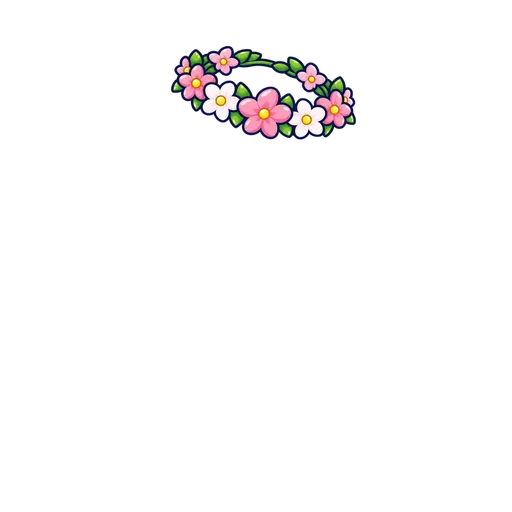
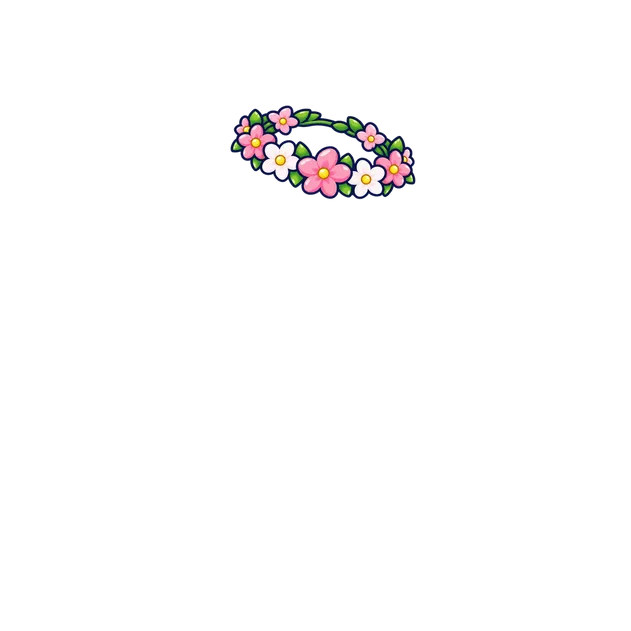
Fitted wearable overlays (Codex 23) with padded layer and alpha hit-testing; fix walking direction

Changed region(s): [[0.3125, 0.0938, 0.7188, 0.3125]]

diff --git a/js/home.js b/js/home.js
@@ -82,7 +82,7 @@ function renderHouse(){
   if(houseTab==='wardrobe'){
     const preview=div('wardrobe-preview'),ruby=rubyFigure('wardrobe-ruby');ruby.id='wardrobeRuby';
     // 點露比身上的配件就直接拿下來
-    ruby.addEventListener('click',e=>{const l=e.target.closest('[data-wear]');if(!l)return;homeWear(homeState,l.dataset.wear);saveHome();sfx.pop();renderHouse();rubyBounce($('#wardrobeRuby'))});preview.append(ruby);content.append(preview);
+    ruby.addEventListener('click',e=>{const id=wearAt(ruby,e.clientX,e.clientY);if(!id)return;homeWear(homeState,id);saveHome();sfx.pop();renderHouse();rubyBounce($('#wardrobeRuby'))});preview.append(ruby);content.append(preview);
     const grid=div('wardrobe-grid');WEARABLES.forEach(it=>grid.append(homeItemButton(it)));content.append(grid);
   }else if(houseTab==='room')renderRoom(content);
   else{
@@ -110,6 +110,21 @@ function renderRoom(content){
     roomDraggable(b,it.id,scene,tray);
   });content.append(scene,tray);
   roomWalker=walkRoomRuby(scene,ruby,content);
+}
+// 找出手指點到的是哪件配件：「穿在身上」的圖層蓋住整隻露比，所以要看該點的圖片是不是透明的
+const wearHitCache=new Map();
+function wearAt(figure,x,y){
+  const layers=[...figure.querySelectorAll('[data-wear]')].reverse();
+  for(const l of layers){
+    const img=l.querySelector('img'),r=l.getBoundingClientRect();
+    if(x<r.left||x>r.right||y<r.top||y>r.bottom)continue;
+    if(!l.classList.contains('ruby-wear-fit')||!img||!img.naturalWidth)return l.dataset.wear;
+    let c=wearHitCache.get(img.src);
+    if(!c){c=document.createElement('canvas');c.width=img.naturalWidth;c.height=img.naturalHeight;c.getContext('2d').drawImage(img,0,0);wearHitCache.set(img.src,c)}
+    const px=Math.floor((x-r.left)/r.width*c.width),py=Math.floor((y-r.top)/r.height*c.height);
+    try{if(c.getContext('2d').getImageData(px,py,1,1).data[3]>40)return l.dataset.wear}catch(_){return l.dataset.wear}
+  }
+  return null;
 }
 function walkRoomRuby(scene,ruby,content){
   // The outer figure moves/faces; the inner figure animates all worn layers together.
@@ -141,7 +156,8 @@ function walkRoomRuby(scene,ruby,content){
   const walk=(x,y)=>{
     stop();clearCheer();
     const from={...pos},to=roomRubyTarget(x,y,size.w,size.h);
-    ruby.style.setProperty('--room-facing',to.x<from.x?-1:1);
+    // 露比的原圖是朝畫面左邊：往左走維持原圖，往右走才左右翻面
+    ruby.style.setProperty('--room-facing',to.x<from.x?1:-1);
     const duration=Math.max(400,Math.hypot(to.x-from.x,(to.y-from.y)*size.ratio)/22*1000);
     ruby.classList.add('room-walking');let start=null;
     const tick=now=>{

diff --git a/css/style.css b/css/style.css
@@ -325,7 +325,7 @@ button.piece{cursor:pointer}
   64%,100%{opacity:0;transform:translate(var(--tx),var(--ty)) translate(-50%,-15%)}
 }
 .piece.puzzle-tile.dragging{box-shadow:none}
-.wardrobe-ruby .ruby-wear{pointer-events:auto;cursor:pointer}
+.wardrobe-ruby{pointer-events:auto;cursor:pointer}
 /* 背景插圖（任務 17）：首頁草地、遊戲畫面淡天空；深色模式用夜晚草地 */
 #home{background:url(../assets/game/bg/home-portrait.webp) center bottom/cover no-repeat}
 #game,#house{background:url(../assets/game/bg/game-portrait.webp) center/cover no-repeat}
@@ -343,4 +343,5 @@ button.piece{cursor:pointer}
 }
 .parent-tip{background:var(--paper);border-radius:12px;padding:4px 10px;opacity:.85}
 .room-object.in-room{--object-size:calc(var(--ruby-w,100px)*var(--k,1))}
-.ruby-wear.ruby-wear-fit{inset:0;width:100%;height:100%;transform:none}
+/* 配件圖層四周比露比多留 11.66%（見 tools/img/build.mjs 的 FIT_PAD） */
+.ruby-wear.ruby-wear-fit{inset:-11.66%;width:auto;height:auto;transform:none}

diff --git a/js/data.js b/js/data.js
@@ -30,7 +30,7 @@ const WEARABLES=[
   {id:'scarf',n:'圍巾',slot:'neck',tier:'small',anchor:{x:43,y:69,size:33,rot:8}}
 ];
 // 配件「穿在身上」的圖層：跟露比主圖完全對齊的透明圖（有的話優先用，沒有才用 anchor 貼小圖）
-const WEAR_FIT={};
+const WEAR_FIT=Object.fromEntries(['royal_crown','flower_crown','party_hat','pink_bow','star_clip','glasses','scarf','cape'].map(id=>[id,'assets/game/wear-fit/'+id+'.webp']));
 // k：放進房間時的大小（以露比的高度為 1）
 const ROOM_ITEMS=[
   {id:'room_bed',n:'床',tier:'large',k:1.45},{id:'room_rug',n:'地毯',tier:'medium',k:1.6},

diff --git a/sw.js b/sw.js
@@ -1,5 +1,5 @@
 // Before every deploy run: node scripts/bump-sw.mjs
-const SW_VERSION = '20261023T065004320Z';
+const SW_VERSION = '20261023T065517348Z';
 const CACHE_PREFIX = 'ruby-pwa-';
 const CACHE_NAME = CACHE_PREFIX + SW_VERSION;
 const APP_SHELL = [

diff --git a/DECISIONS.md b/DECISIONS.md
@@ -6,12 +6,12 @@
 （目前沒有待決定的事。任務 11～15 進行中）
 
 ## 試玩回饋（隨時可寫）
+
 網站：https://stntkero.github.io/RubyGame/
 
-處理中：
-- 皇冠位置、圍巾像貼紙：改成「穿在露比身上」的圖層（任務 23，Codex 畫圖中）
-
 已處理：
+- 露比走路方向相反：已修正（原圖朝左，往右走才翻面）
+- 皇冠、圍巾等 8 件配件改成「穿在身上」的圖層：皇冠卡在頭頂、圍巾繞脖子打結、披風在身後；點到配件本身才會拿下來
 - 拖動家具時（從收納盒拖出、或在房間裡移動）一直都是家具實際的大小和樣子
 - 走路像 GIF 一樣換腳：4 張分解圖輪流切換，停下來換回站姿
 - 露比走路不會再走到牆上，腳一定踩在地板範圍內
